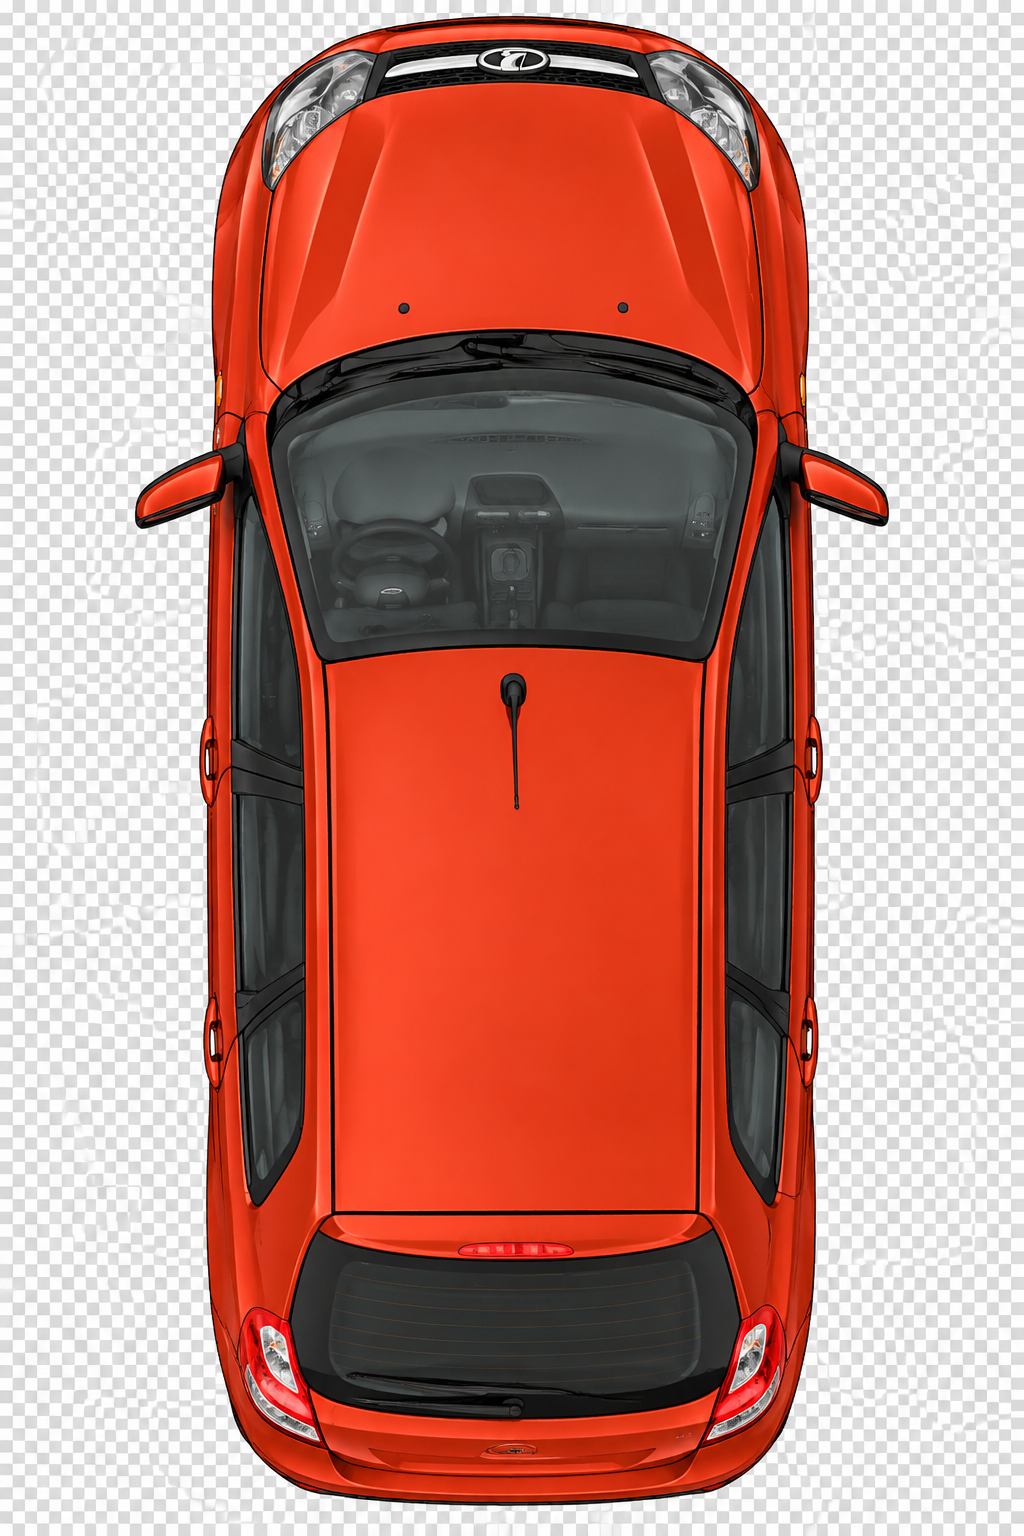
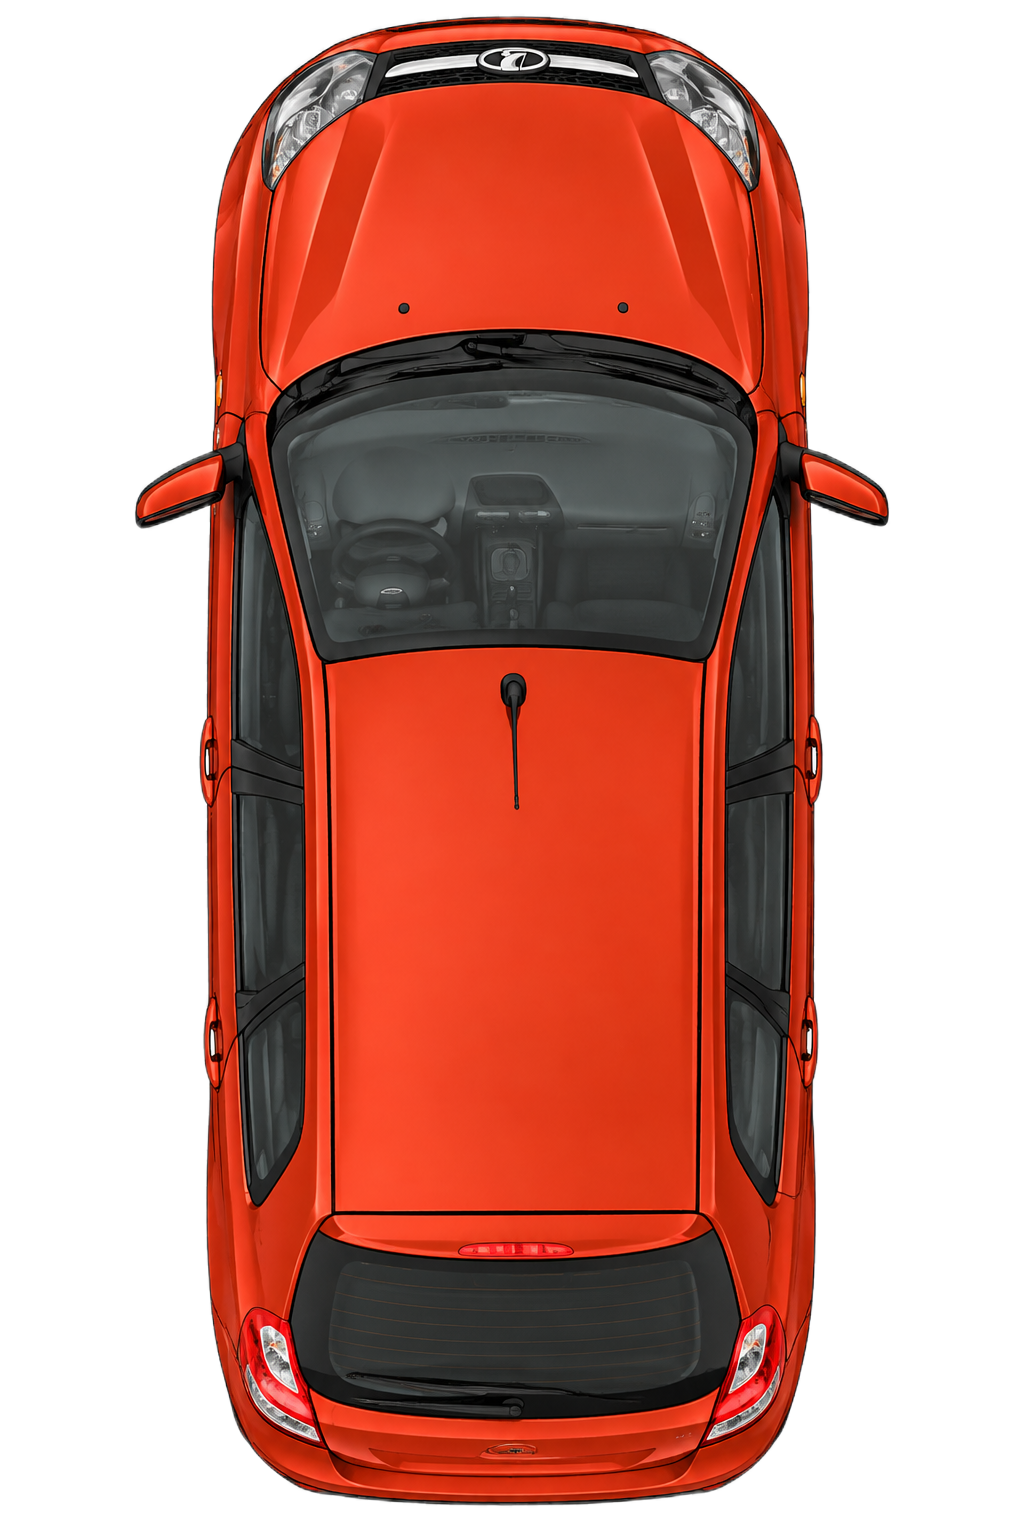
a

Changed region(s): [[0.0, 0.0, 1.0, 1.0]]

diff --git a/games/games/kalina_rush/js/kalina.js b/games/games/kalina_rush/js/kalina.js
@@ -29,50 +29,11 @@ document.addEventListener('DOMContentLoaded', () => {
     const CAR_WIDTH = 70;  
     const CAR_HEIGHT = 120; 
 
-    // Создаем объекты для картинки
+    // Просто загружаем картинку
     const carImage = new Image();
     carImage.src = '/games/games/kalina_rush/img/Kalina.png'; 
     
-    // Временный холст для обработки
-    const tempCanvas = document.createElement('canvas');
-    const tempCtx = tempCanvas.getContext('2d');
-    let isImageReady = false;
-
     carImage.onload = () => {
-        tempCanvas.width = carImage.width;
-        tempCanvas.height = carImage.height;
-        
-        // Очищаем холст (делаем его прозрачным)
-        tempCtx.clearRect(0, 0, tempCanvas.width, tempCanvas.height);
-        
-        // Рисуем картинку (она уже PNG, но возможно с белым фоном)
-        tempCtx.drawImage(carImage, 0, 0);
-        
-        // ПОЛУЧАЕМ ДАННЫЕ ПИКСЕЛЕЙ
-        const imgData = tempCtx.getImageData(0, 0, tempCanvas.width, tempCanvas.height);
-        const data = imgData.data;
-        
-        // УДАЛЯЕМ БЕЛЫЙ ФОН БЕЗ ШУМА
-        for (let i = 0; i < data.length; i += 4) {
-            const r = data[i];
-            const g = data[i + 1];
-            const b = data[i + 2];
-            
-            // Если пиксель очень светлый (белый или почти белый), делаем его прозрачным
-            // 230 — это порог. Если хочешь убрать больше, поставь 200.
-            if (r > 230 && g > 230 && b > 230) {
-                data[i + 3] = 0; // Делаем прозрачным
-            } else {
-                // Для остальных пикселей (сама машина) оставляем как есть
-                // Но добавим немного насыщенности, чтобы машина не была тусклой
-                data[i + 3] = 255; 
-            }
-        }
-        
-        // Возвращаем обработанные данные
-        tempCtx.putImageData(imgData, 0, 0);
-        isImageReady = true;
-        
         if (!isPlaying) draw();
     };
 
@@ -109,13 +70,17 @@ document.addEventListener('DOMContentLoaded', () => {
             ctx.fillRect(canvas.width * 0.625, i + lineOffset, 4, 40); 
         }
 
-        // Враги (используем нашу очищенную картинку)
+        // Враги
         enemyCars.forEach(car => {
-            if (isImageReady) {
-                ctx.shadowColor = 'rgba(0, 0, 0, 0.5)';
+            if (carImage.complete && carImage.naturalWidth !== 0) {
+                // Тень
+                ctx.shadowColor = 'rgba(0, 0, 0, 0.6)';
                 ctx.shadowBlur = 10;
                 ctx.shadowOffsetY = 5;
-                ctx.drawImage(tempCanvas, car.x - CAR_WIDTH/2, car.y, CAR_WIDTH, CAR_HEIGHT);
+                
+                ctx.drawImage(carImage, car.x - CAR_WIDTH/2, car.y, CAR_WIDTH, CAR_HEIGHT);
+                
+                // Сброс тени
                 ctx.shadowColor = 'transparent';
                 ctx.shadowBlur = 0;
                 ctx.shadowOffsetY = 0;
@@ -131,14 +96,15 @@ document.addEventListener('DOMContentLoaded', () => {
         ctx.beginPath();
         playerCar.x += (playerCar.targetX - playerCar.x) * 0.1;
         
-        if (isImageReady) {
+        if (carImage.complete && carImage.naturalWidth !== 0) {
+            // Тень
             ctx.shadowColor = 'rgba(0, 0, 0, 0.6)';
             ctx.shadowBlur = 15;
             ctx.shadowOffsetY = 8;
             
-            // Рисуем очищенную картинку
-            ctx.drawImage(tempCanvas, playerCar.x - CAR_WIDTH/2, playerCar.y, CAR_WIDTH, CAR_HEIGHT);
+            ctx.drawImage(carImage, playerCar.x - CAR_WIDTH/2, playerCar.y, CAR_WIDTH, CAR_HEIGHT);
             
+            // Сброс тени
             ctx.shadowColor = 'transparent';
             ctx.shadowBlur = 0;
             ctx.shadowOffsetY = 0;
